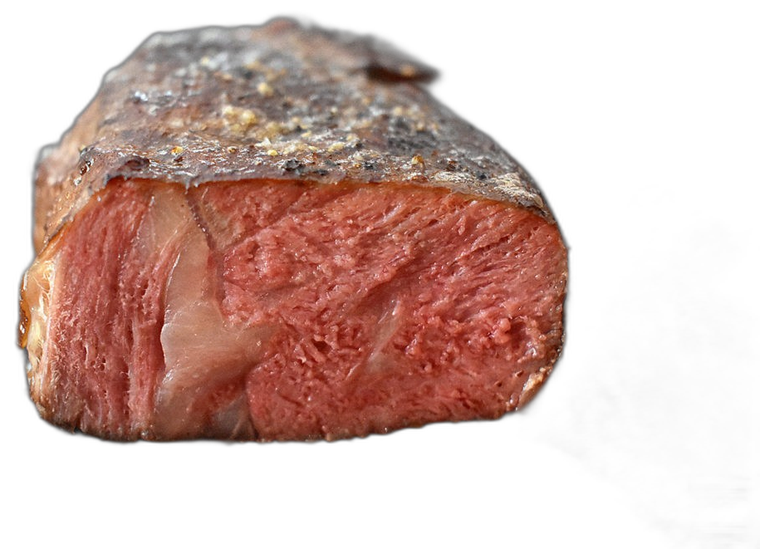
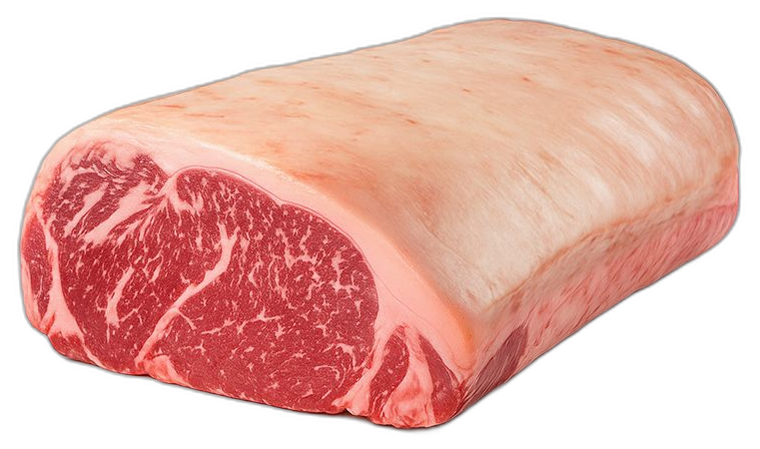
feat: foto propia de New York (Emmanuel) + ajuste creditos

diff --git a/index.html b/index.html
@@ -225,7 +225,7 @@
       <p>Pedidos y domicilio: <a href="tel:[phone redacted]">[phone redacted]</a><br>Mayoreo: <a href="tel:[phone redacted]">[phone redacted]</a></p>
     </div>
   </div>
-  <p class="footer__credits">Fotos de cortes de bancos de uso libre (Wikimedia Commons · Flickr CC BY: arnold|inuyaki, sousvideguy, StuartWebster, whitneyinchicago) — provisionales hasta contar con fotografía propia.</p>
+  <p class="footer__credits">Algunas fotos de cortes provienen de bancos de uso libre (Wikimedia Commons · Flickr CC BY: arnold|inuyaki, StuartWebster, whitneyinchicago) — provisionales hasta contar con fotografía propia.</p>
   <p class="footer__copy">© <span id="year">2026</span> PEDMUN Carnicería · Cadereyta de Montes, Querétaro · Desde 2024</p>
 </footer>
 